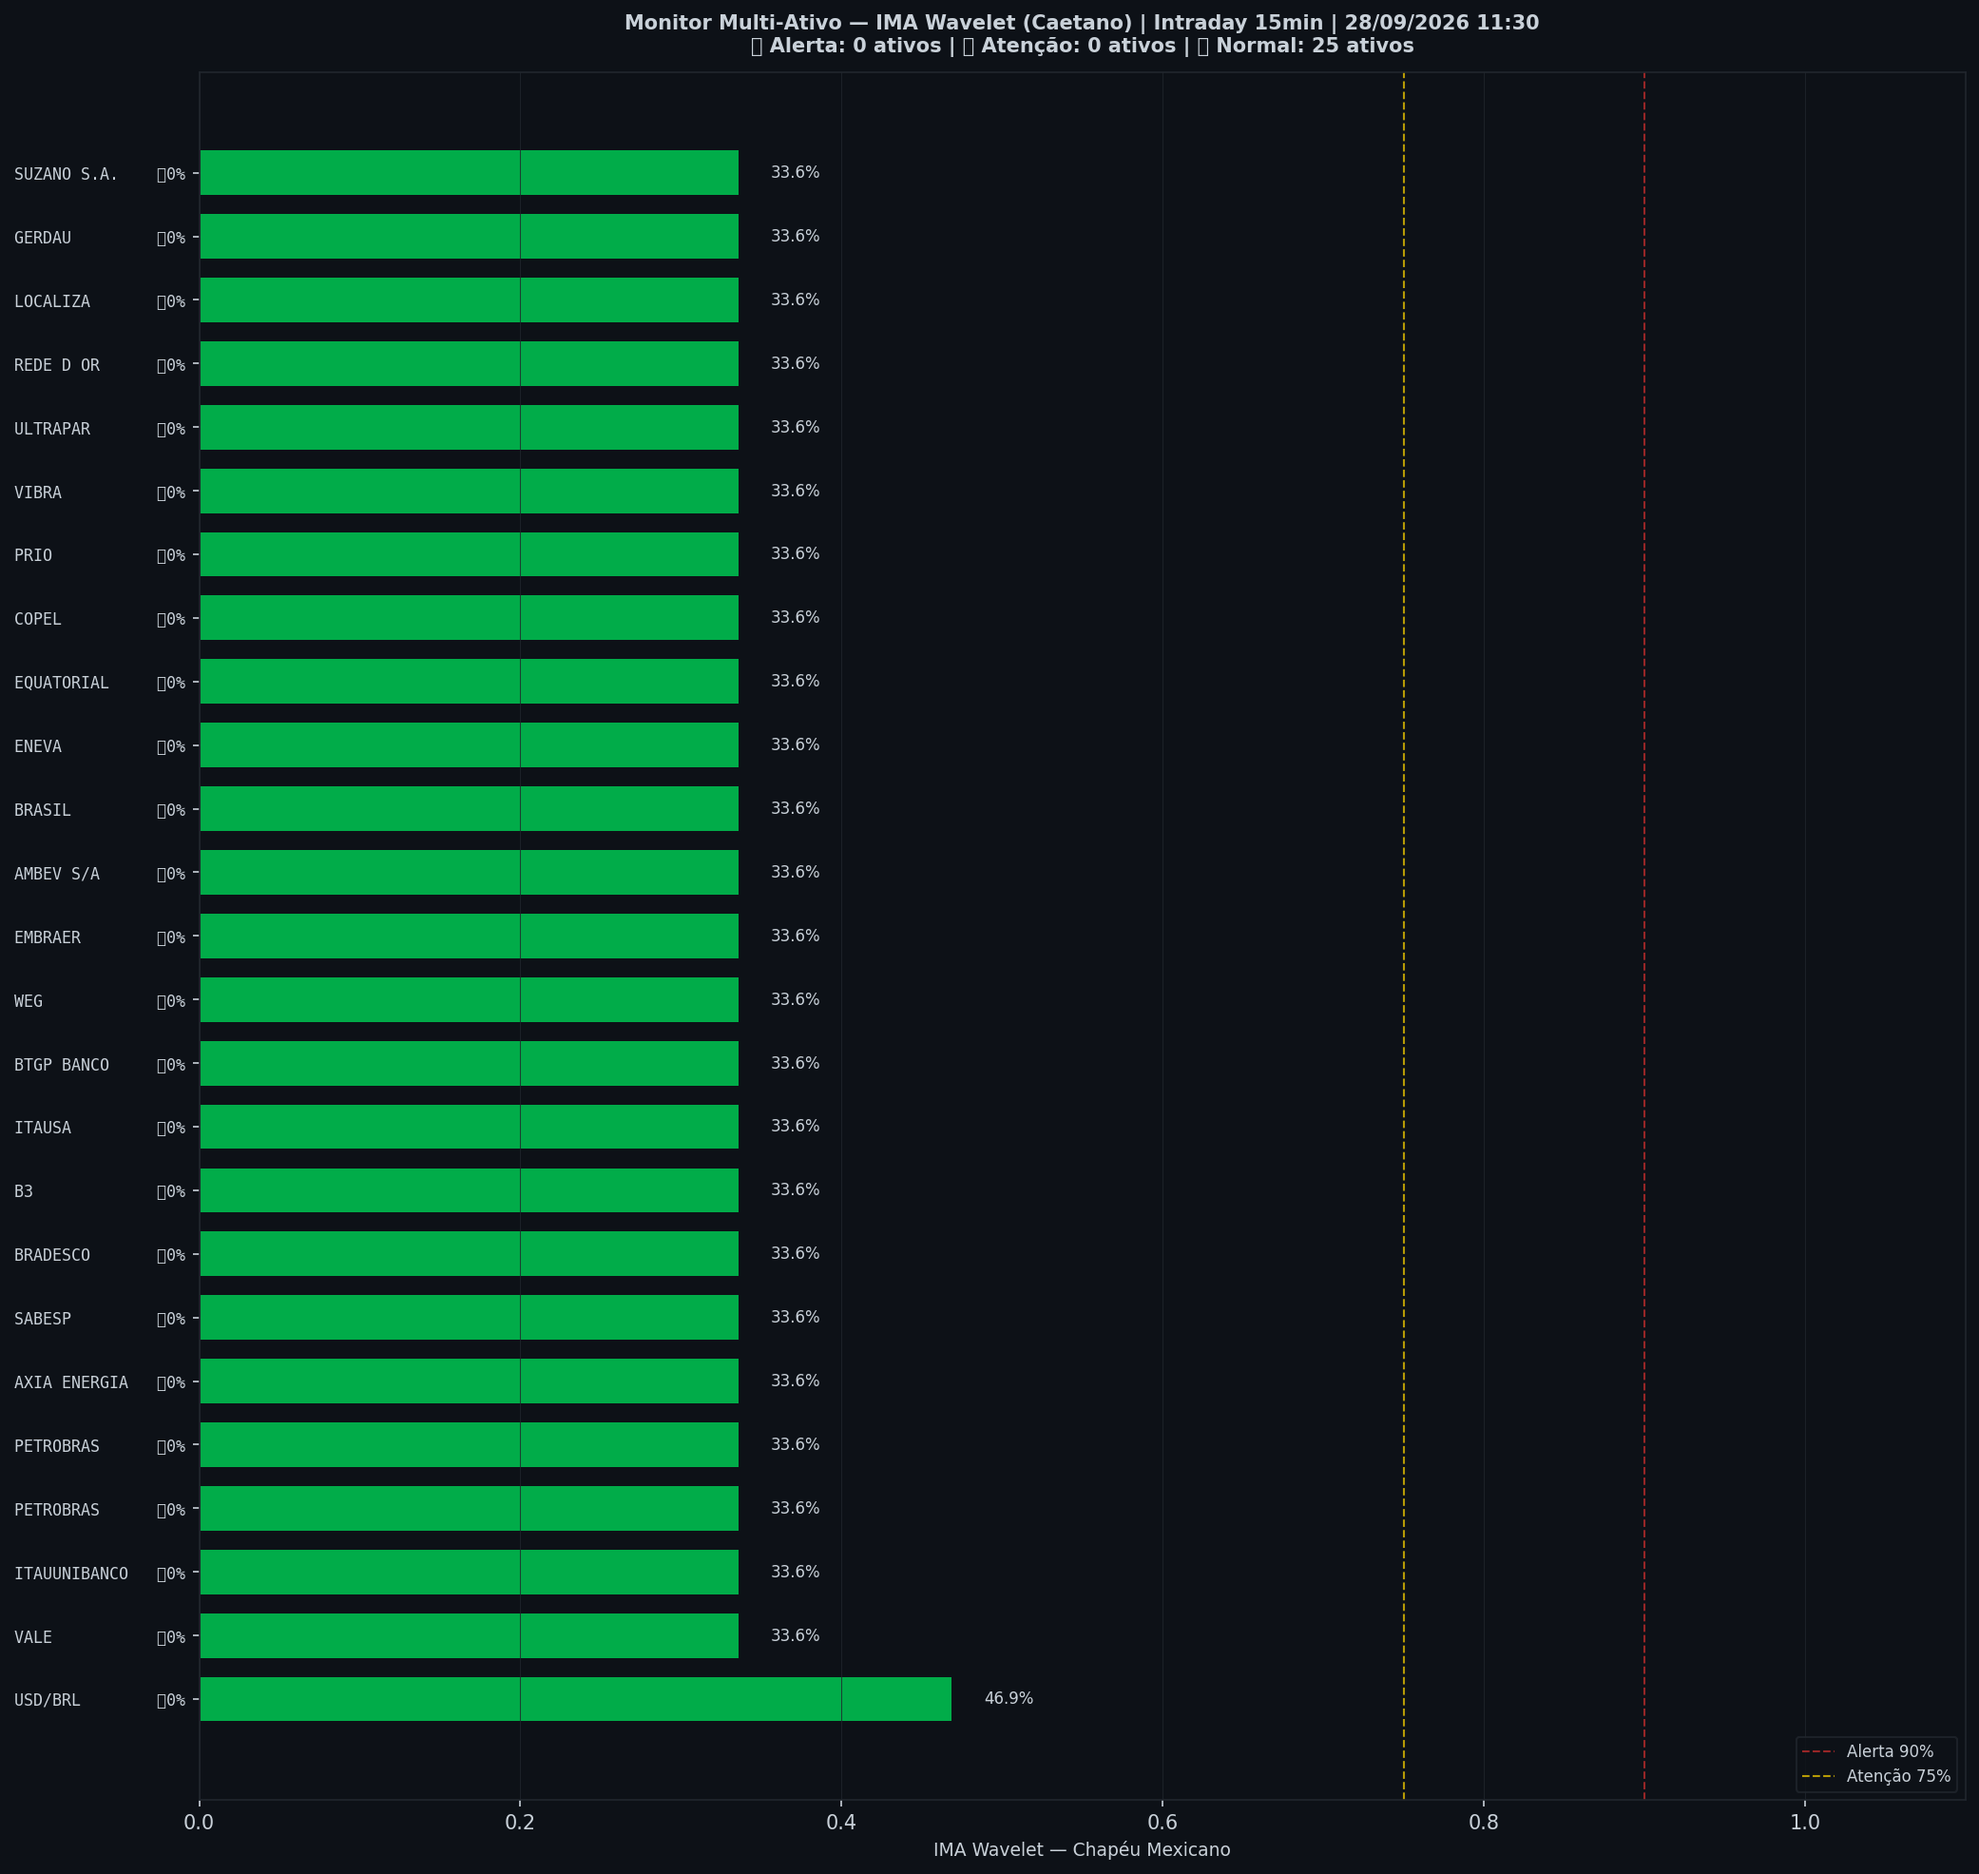
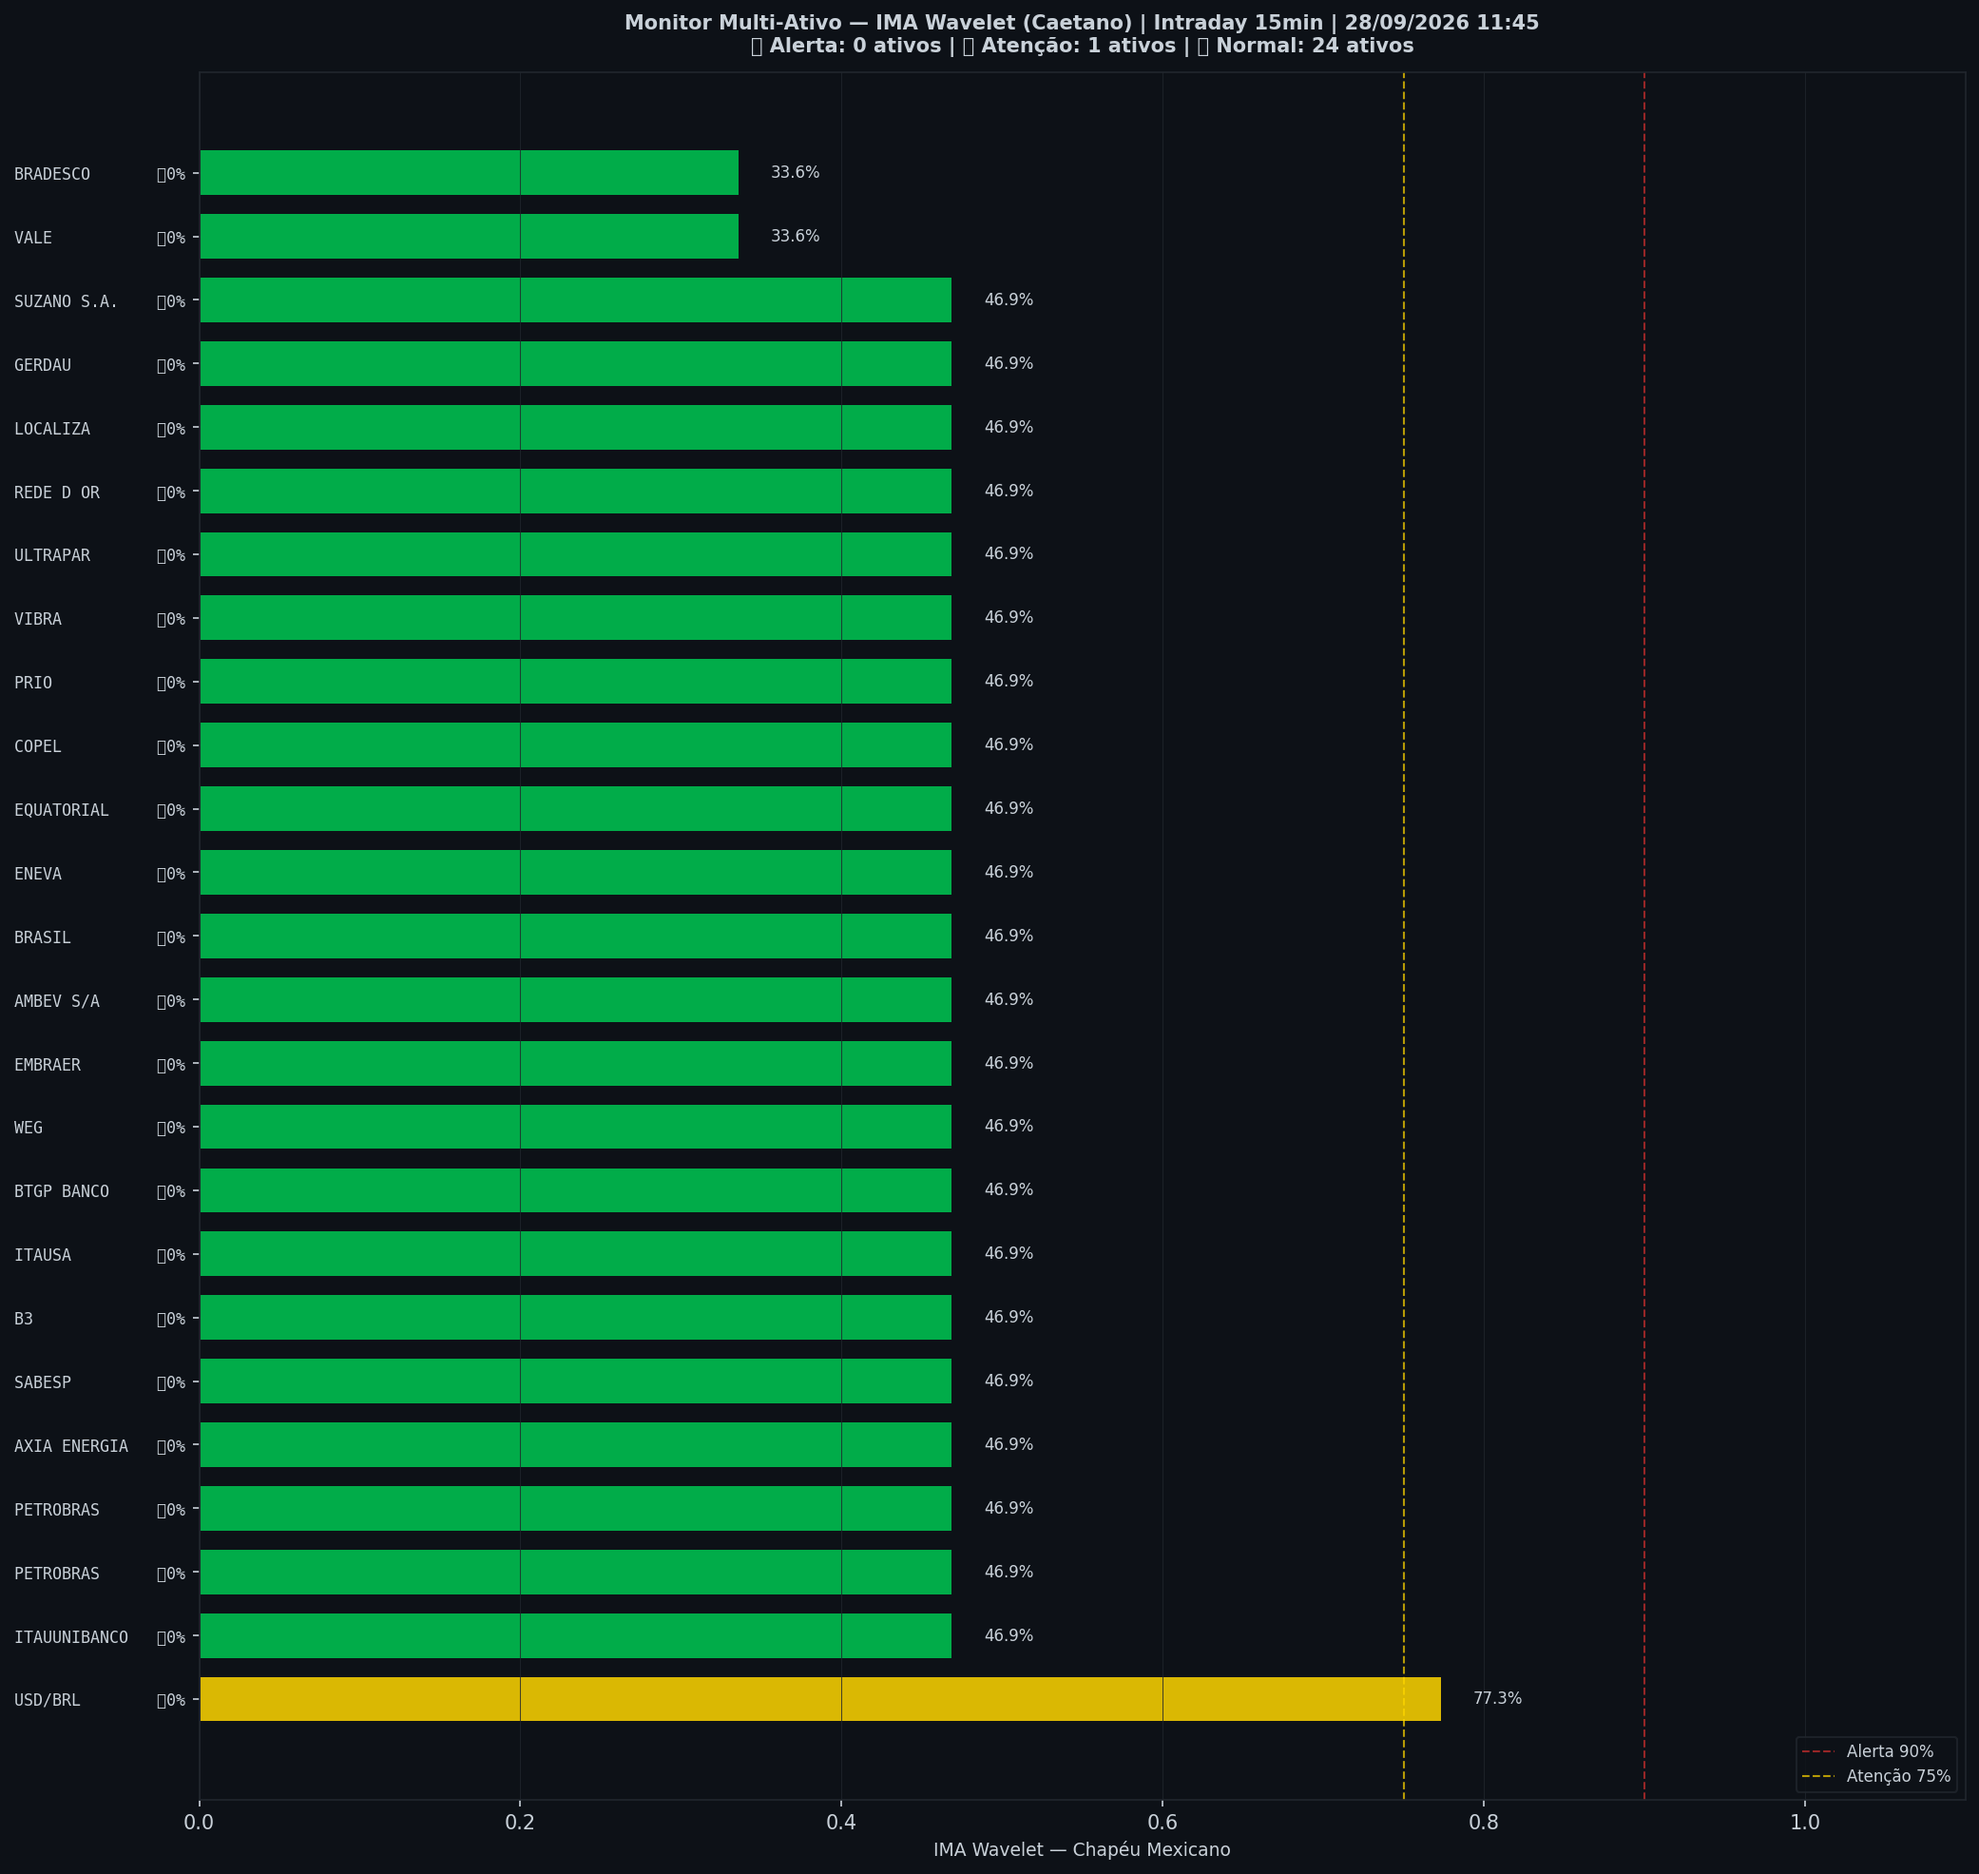
🤖 Auto: Sinal 28/09/2026 11:46

Changed region(s): [[0.0937, 0.1238, 0.7493, 0.9285], [0.0312, 0.8356, 0.0624, 0.8975]]

diff --git a/content/intraday/2026-09-28.md b/content/intraday/2026-09-28.md
@@ -1,10 +1,10 @@
 ---
-title: "🟢 Intraday 28/09/2026 10:45 BRT — VERDE"
+title: "🟢 Intraday 28/09/2026 11:00 BRT — VERDE"
 date: 2026-09-28
 tags: [intraday]
 ---
 
-> [!success] 🟢 **VERDE** — Risco 0% · ▼ -1 p.p. vs leitura anterior
+> [!success] 🟢 **VERDE** — Risco 0% · ＝ +0 p.p. vs leitura anterior
 > `░░░░░░░░░░░░░░░░░░░░`
 > Mercado sem sinais relevantes de estresse.
 
@@ -12,9 +12,9 @@ tags: [intraday]
 | Indicador | Valor |
 |---|---|
 | 🔴 ζ Crash — severidade da queda em curso | **0%** |
-| 🔵 ζ Entrada — estrutura de fundo | 53% |
+| 🔵 ζ Entrada — estrutura de fundo | 54% |
 | 🫧 LPPL DS-Confidence | 0% |
-| 📊 Ibovespa | 182.056 pts |
+| 📊 Ibovespa | 182.716 pts |
 
 ![Gráfico do sinal](../graficos/sinal_intraday.png)
 
@@ -22,6 +22,7 @@ tags: [intraday]
 
 | Data | Zona | Risco | IMA Crash | Entrada | LPPL |
 |---|---|---|---|---|---|
+| 2026-09-28 11:00 | 🟢 VERDE | **0%** | 0% | 54% | 0% |
 | 2026-09-28 10:45 | 🟢 VERDE | **0%** | 0% | 53% | 0% |
 | 2026-09-28 10:30 | 🟢 VERDE | **1%** | 1% | 43% | 0% |
 | 2026-09-28 10:15 | 🟢 VERDE | **2%** | 2% | 34% | 0% |
@@ -51,43 +52,42 @@ tags: [intraday]
 | 2026-09-25 11:15 | 🟢 VERDE | **0%** | 0% | 100% | 0% |
 | 2026-09-25 11:00 | 🟢 VERDE | **0%** | 0% | 99% | 0% |
 | 2026-09-25 10:45 | 🟢 VERDE | **1%** | 1% | 98% | 0% |
-| 2026-09-25 10:30 | 🟢 VERDE | **2%** | 2% | 98% | 0% |
 
 ## Monitor Multi-Ativo
 
-**0% dos ativos em tensão** (0🔴 0🟡) — quanto mais ativos disparam juntos, mais confiável o sinal.
+**4% dos ativos em tensão** (0🔴 1🟡) — quanto mais ativos disparam juntos, mais confiável o sinal.
 
 | Zona | Ativo | Setor | IMA Crash | IMA Entrada |
 |---|---|---|---|---|
-| 🟢 | **USD/BRL** | Câmbio | 46.9% | 0.0% |
+| 🟡 | **USD/BRL** | Câmbio | 77.3% | 0.0% |
+| 🟢 | **ITAUUNIBANCO** | Financeiro | 46.9% | 0.0% |
+| 🟢 | **PETROBRAS** | Petróleo | 46.9% | 0.0% |
+| 🟢 | **PETROBRAS** | Petróleo | 46.9% | 0.0% |
+| 🟢 | **AXIA ENERGIA** | Energia | 46.9% | 0.0% |
+| 🟢 | **SABESP** | Saneamento | 46.9% | 0.0% |
+| 🟢 | **B3** | Financeiro | 46.9% | 0.0% |
+| 🟢 | **ITAUSA** | Financeiro | 46.9% | 0.0% |
+| 🟢 | **BTGP BANCO** | Financeiro | 46.9% | 0.0% |
+| 🟢 | **WEG** | Industrial | 46.9% | 0.0% |
+| 🟢 | **EMBRAER** | Outros | 46.9% | 0.0% |
+| 🟢 | **AMBEV S/A** | Consumo | 46.9% | 0.0% |
+| 🟢 | **BRASIL** | Financeiro | 46.9% | 0.0% |
+| 🟢 | **ENEVA** | Energia | 46.9% | 0.0% |
+| 🟢 | **EQUATORIAL** | Energia | 46.9% | 0.0% |
+| 🟢 | **COPEL** | Energia | 46.9% | 0.0% |
+| 🟢 | **PRIO** | Petróleo | 46.9% | 0.0% |
+| 🟢 | **VIBRA** | Energia | 46.9% | 0.0% |
+| 🟢 | **ULTRAPAR** | Outros | 46.9% | 0.0% |
+| 🟢 | **REDE D OR** | Saúde | 46.9% | 0.0% |
+| 🟢 | **LOCALIZA** | Aluguel | 46.9% | 0.0% |
+| 🟢 | **GERDAU** | Siderurgia | 46.9% | 0.0% |
+| 🟢 | **SUZANO S.A.** | Papel/Celulose | 46.9% | 0.0% |
 | 🟢 | **VALE** | Mineração | 33.6% | 0.0% |
-| 🟢 | **ITAUUNIBANCO** | Financeiro | 33.6% | 0.0% |
-| 🟢 | **PETROBRAS** | Petróleo | 33.6% | 0.0% |
-| 🟢 | **PETROBRAS** | Petróleo | 33.6% | 0.0% |
-| 🟢 | **AXIA ENERGIA** | Energia | 33.6% | 0.0% |
-| 🟢 | **SABESP** | Saneamento | 33.6% | 0.0% |
 | 🟢 | **BRADESCO** | Financeiro | 33.6% | 0.0% |
-| 🟢 | **B3** | Financeiro | 33.6% | 0.0% |
-| 🟢 | **ITAUSA** | Financeiro | 33.6% | 0.0% |
-| 🟢 | **BTGP BANCO** | Financeiro | 33.6% | 0.0% |
-| 🟢 | **WEG** | Industrial | 33.6% | 0.0% |
-| 🟢 | **EMBRAER** | Outros | 33.6% | 0.0% |
-| 🟢 | **AMBEV S/A** | Consumo | 33.6% | 0.0% |
-| 🟢 | **BRASIL** | Financeiro | 33.6% | 0.0% |
-| 🟢 | **ENEVA** | Energia | 33.6% | 0.0% |
-| 🟢 | **EQUATORIAL** | Energia | 33.6% | 0.0% |
-| 🟢 | **COPEL** | Energia | 33.6% | 0.0% |
-| 🟢 | **PRIO** | Petróleo | 33.6% | 0.0% |
-| 🟢 | **VIBRA** | Energia | 33.6% | 0.0% |
-| 🟢 | **ULTRAPAR** | Outros | 33.6% | 0.0% |
-| 🟢 | **REDE D OR** | Saúde | 33.6% | 0.0% |
-| 🟢 | **LOCALIZA** | Aluguel | 33.6% | 0.0% |
-| 🟢 | **GERDAU** | Siderurgia | 33.6% | 0.0% |
-| 🟢 | **SUZANO S.A.** | Papel/Celulose | 33.6% | 0.0% |
 
 ![Monitor multi-ativo](../graficos/multi_intraday.png)
 
-*Página atualizada em 28/09/2026 11:31 BRT (leitura da barra de 2026-09-28 10:45 BRT).*
+*Página atualizada em 28/09/2026 11:46 BRT (leitura da barra de 2026-09-28 11:00 BRT).*
 
 > [!info]- Como interpretar (clique para expandir)
 > - **ζ Crash**: fração dos coeficientes wavelet acima do corte (Caetano & Yoneyama 2009). Escala absoluta: ζ=0,90 = 90% dos coeficientes anômalos — historicamente, quedas com ζ≥0,90 foram mais fundas e mais longas. **Mede a severidade do movimento em curso, não prevê o início da queda.**

diff --git a/content/index.md b/content/index.md
@@ -8,9 +8,9 @@ tags: [home]
 
 Monitoramento diário e intraday do Ibovespa — **IMA Wavelet** (Prof. Marco Antonio Leonel Caetano, ITA/INSPER) + **LPPL DS-Confidence** (Prof. Didier Sornette, ETH-Zurich).
 
-*Última atualização: 28/09/2026 11:31 BRT · ^BVSP · Intraday 15min · v4*
+*Última atualização: 28/09/2026 11:46 BRT · ^BVSP · Intraday 15min · v4*
 
-> [!success] 🟢 **VERDE** — Risco 0% · ▼ -1 p.p. vs leitura anterior
+> [!success] 🟢 **VERDE** — Risco 0% · ＝ +0 p.p. vs leitura anterior
 > `░░░░░░░░░░░░░░░░░░░░`
 > Mercado sem sinais relevantes de estresse.
 
@@ -18,11 +18,11 @@ Monitoramento diário e intraday do Ibovespa — **IMA Wavelet** (Prof. Marco An
 | Indicador | Valor |
 |---|---|
 | 🔴 ζ Crash — severidade da queda em curso | **0%** |
-| 🔵 ζ Entrada — estrutura de fundo | 53% |
+| 🔵 ζ Entrada — estrutura de fundo | 54% |
 | 🫧 LPPL DS-Confidence | 0% |
-| 📊 Ibovespa | 182.056 pts |
+| 📊 Ibovespa | 182.716 pts |
 
-**Multi-ativo:** 0% em tensão (0🔴 0🟡 de 25 ativos)
+**Multi-ativo:** 4% em tensão (0🔴 1🟡 de 25 ativos)
 
 
 > [!tip]- Calibração v4 (backtest 15y)

diff --git a/content/historico.md b/content/historico.md
@@ -7,6 +7,7 @@ tags: [historico]
 
 | Data | Modo | Zona | Risco | IMA | LPPL |
 |---|---|---|---|---|---|
+| 2026-09-28 11:00 | intraday | 🟢 VERDE | 0% | 0% | 0% |
 | 2026-09-28 10:45 | intraday | 🟢 VERDE | 0% | 0% | 0% |
 | 2026-09-28 10:30 | intraday | 🟢 VERDE | 1% | 1% | 0% |
 | 2026-09-28 10:15 | intraday | 🟢 VERDE | 2% | 2% | 0% |
